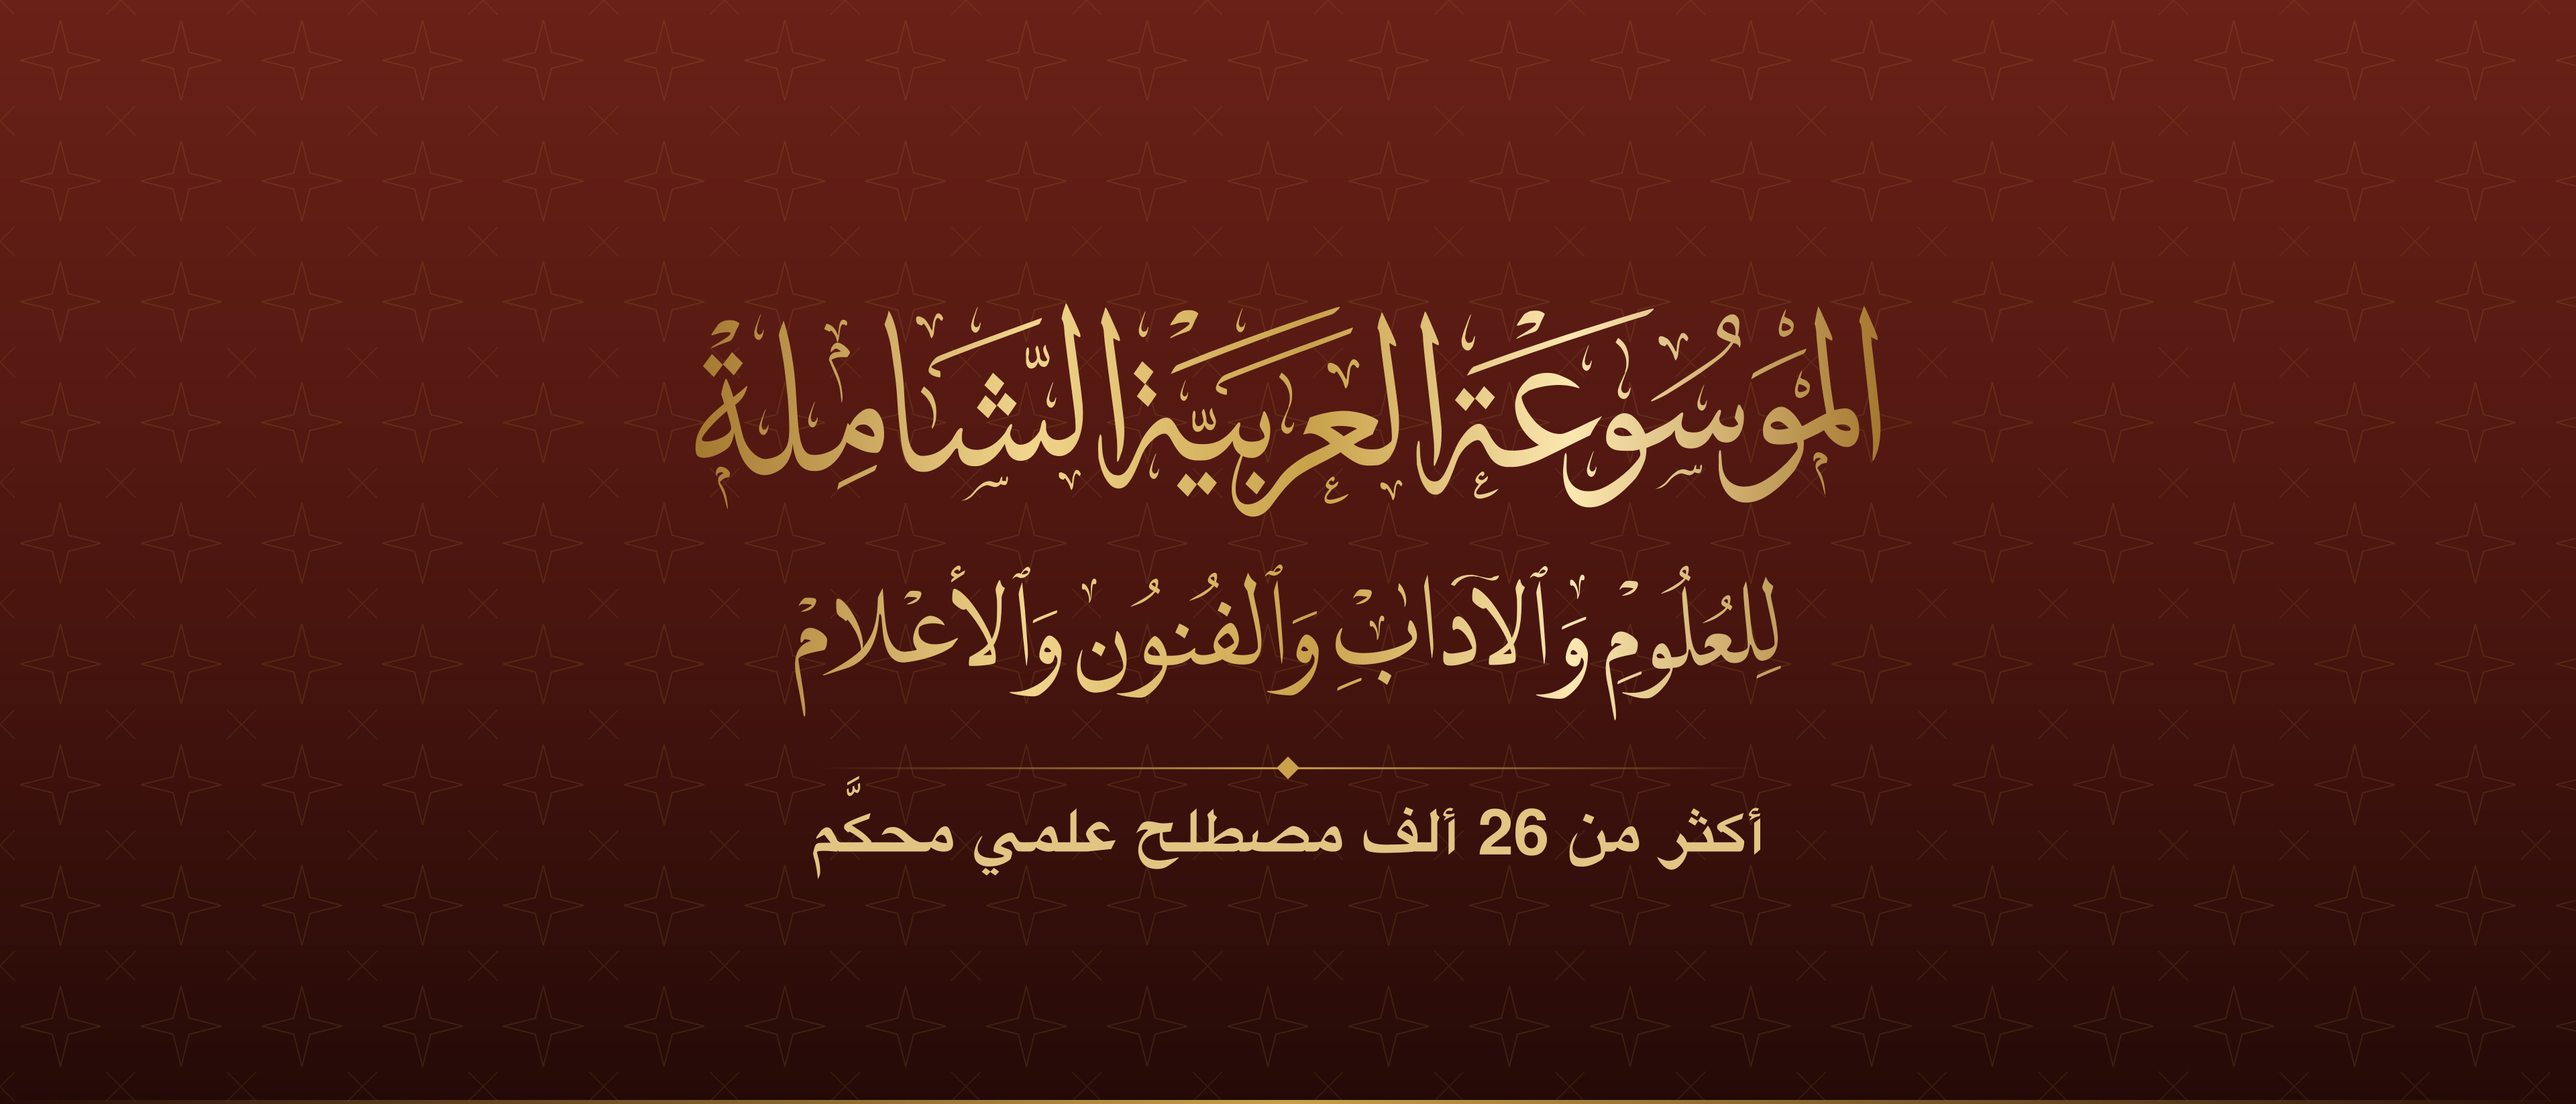
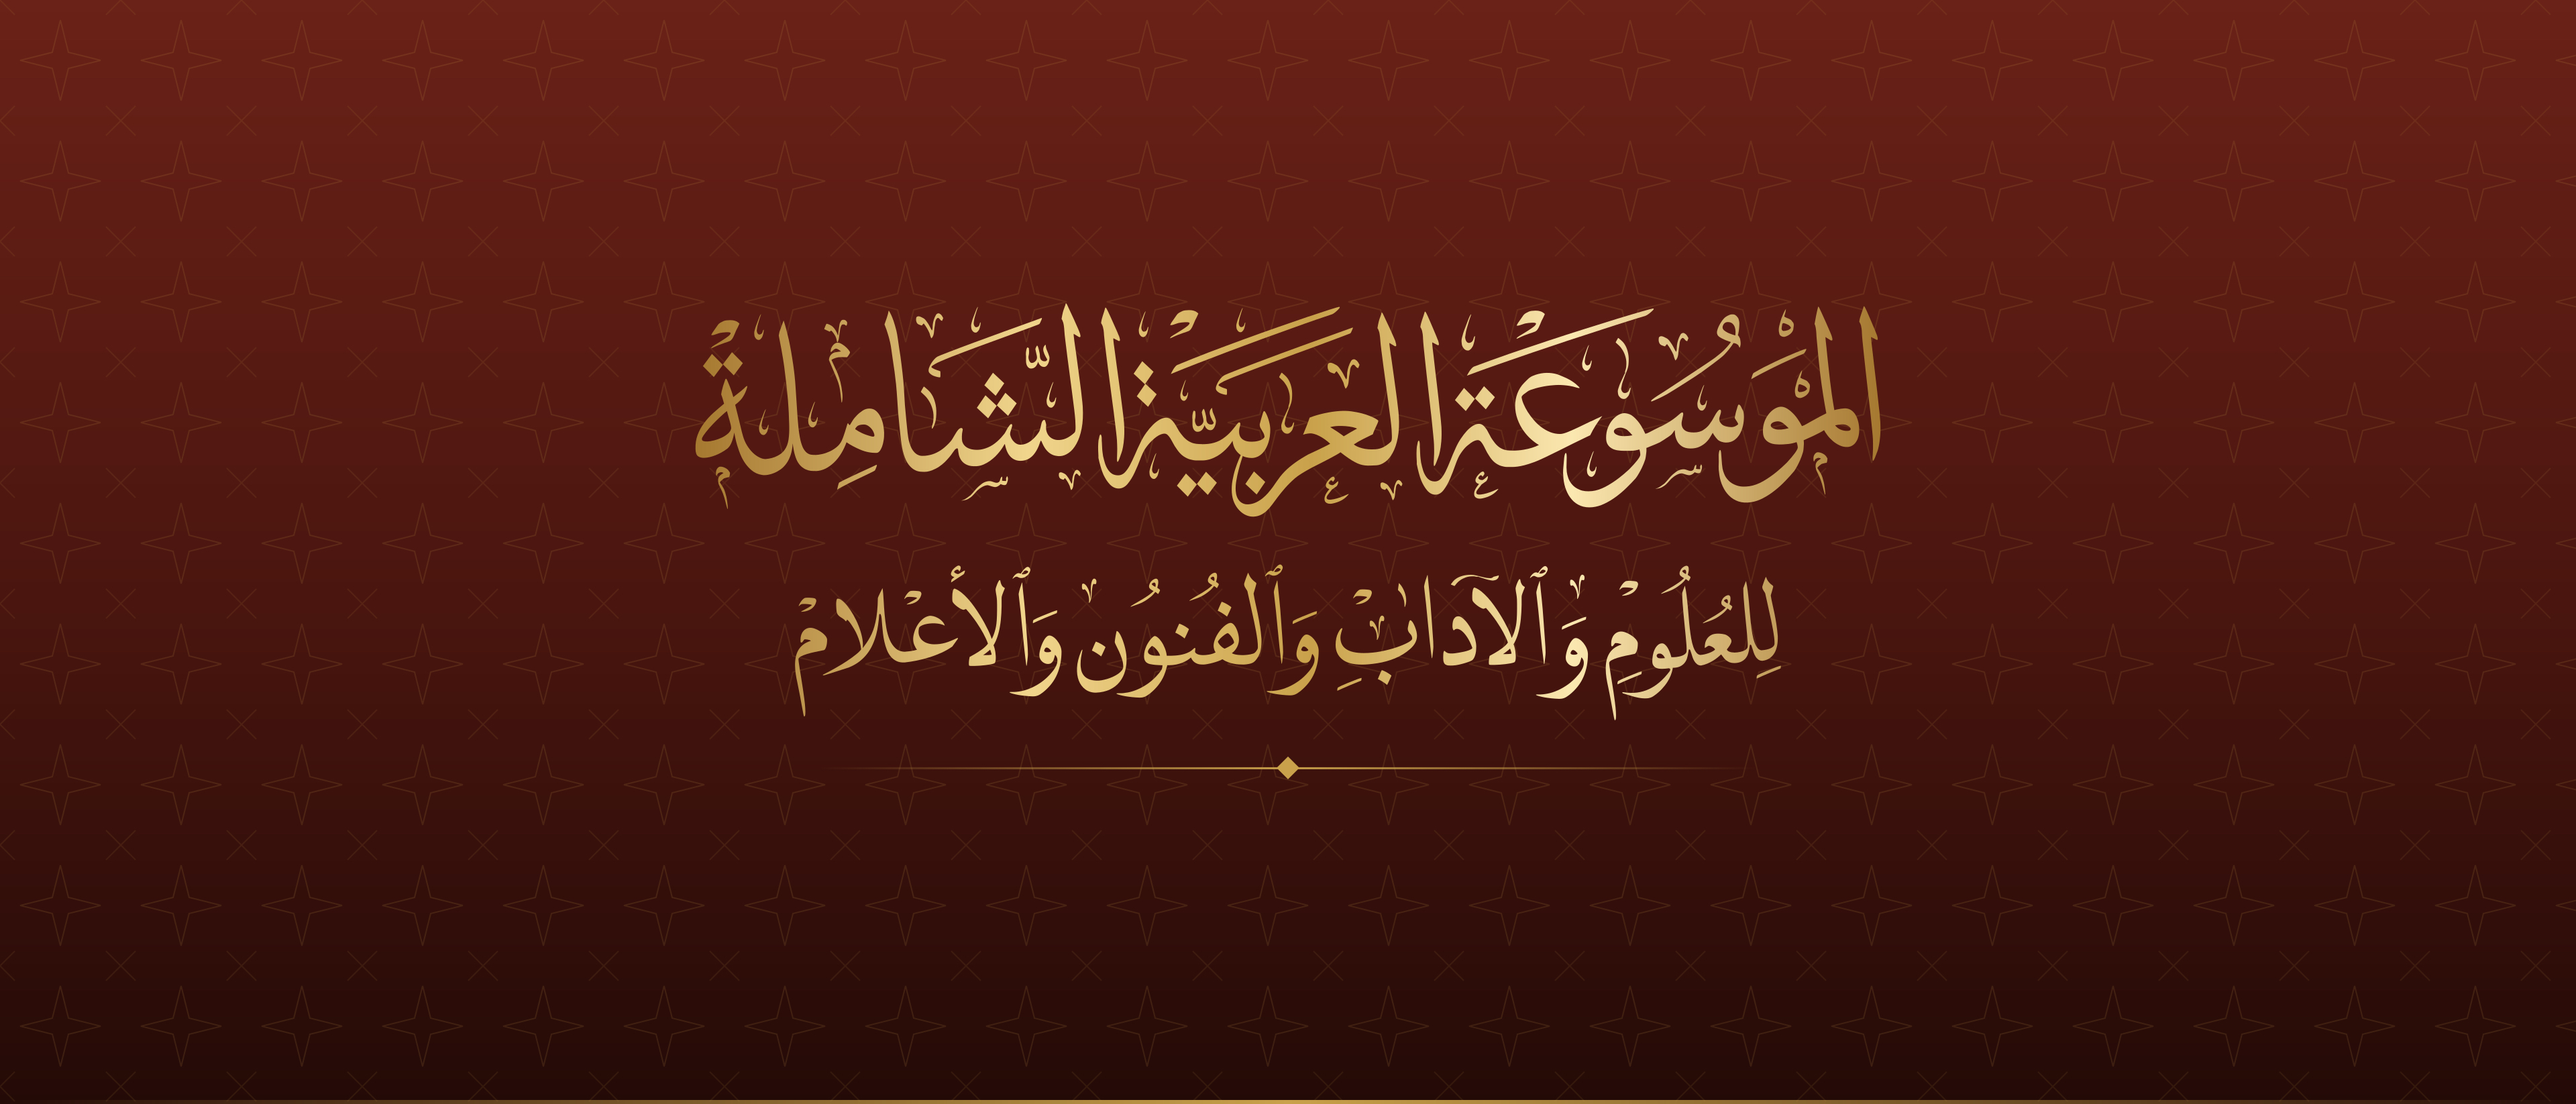
Store materials: no term counts promised (texts and images)

Changed region(s): [[0.3125, 0.7126, 0.6875, 0.8056]]

diff --git a/AppStore/STORE_LISTING.md b/AppStore/STORE_LISTING.md
@@ -33,8 +33,8 @@ Character limits are noted next to each field; every text below fits within them
 **English** (70 characters):
 > The comprehensive Arabic encyclopedia of terms, by the Sharjah Academy
 
-App Store "Promotional text" (up to 170 characters, can be changed anytime without review):
-> أكثر من 26 ألف مصطلح في العلوم اللغوية والشرعية والإنسانية والتطبيقية، بتعريفاتها اللغوية والاصطلاحية ومصادرها الموثوقة.
+App Store "Promotional text" (up to 170 characters, can be changed anytime without review; no figures promised):
+> مصطلحات العلوم اللغوية والشرعية والإنسانية والتطبيقية، بتعريفاتها اللغوية والاصطلاحية ومصادرها الموثوقة، من مجمع اللغة العربية في الشارقة.
 
 ## 5. About / full description (more than 200 words)
 
@@ -44,7 +44,7 @@ App Store "Promotional text" (up to 170 characters, can be changed anytime witho
 >
 > مشروع معرفي شامل من مجمع اللغة العربية في الشارقة، يهدف إلى توثيق تراث اللغة العربية وعلومها ومصطلحاتها، بنسق مخطوطي معاصر يجمع بين الدقة الأكاديمية وجماليات التصميم العربي.
 >
-> يضع التطبيق بين يديك أكثر من ستة وعشرين ألف مصطلح علمي محكَّم، موزعة على عشرات العلوم في العلوم اللغوية والشرعية والإنسانية والتطبيقية والفنون الأدبية؛ من النحو والصرف والبلاغة والعروض، إلى علوم القرآن وعلوم الحديث وأصول الفقه، وصولًا إلى المنطق والصوتيات والمعجميات والمسرح وغيرها.
+> يضع التطبيق بين يديك مصطلحات علمية محكَّمة، موزعة على علوم اللغوية والشرعية والإنسانية والتطبيقية والفنون الأدبية؛ من النحو والصرف والبلاغة والعروض، إلى علوم القرآن وعلوم الحديث وأصول الفقه، وصولًا إلى المنطق والصوتيات والمعجميات والمسرح وغيرها.
 >
 > لكل مصطلح بطاقة علمية متكاملة تعرض التعريف اللغوي، والتعريف الاصطلاحي، وشرح التعريف، والأمثلة، والمصادر والمراجع التي اعتمد عليها الباحثون، في عرض واضح يراعي جمال الخط العربي وسهولة القراءة.
 >
@@ -74,7 +74,7 @@ App Store "Promotional text" (up to 170 characters, can be changed anytime witho
 >
 > A major knowledge project of the Arabic Language Academy in Sharjah, documenting the heritage of the Arabic language, its sciences and terminology, in a contemporary manuscript-inspired design that combines academic rigour with the beauty of Arabic calligraphy.
 >
-> The app gives you more than 26,000 peer-reviewed scholarly terms across dozens of disciplines in the linguistic, Islamic, human and applied sciences and the literary arts: from grammar, morphology, rhetoric and prosody to Quranic sciences, Hadith sciences and legal theory, and on to logic, phonetics, lexicography, theatre and more.
+> The app gives you peer-reviewed scholarly terms across disciplines in the linguistic, Islamic, human and applied sciences and the literary arts: from grammar, morphology, rhetoric and prosody to Quranic sciences, Hadith sciences and legal theory, and on to logic, phonetics, lexicography, theatre and more.
 >
 > Each term has a complete scholarly entry: its linguistic definition, its technical definition, an explanation, examples, and the sources and references the researchers relied on, presented clearly and designed for comfortable reading in Arabic.
 >
@@ -171,7 +171,7 @@ The app's own code collects nothing. The website it displays uses **Google Analy
 
 > This is the official app of the Comprehensive Arabic Encyclopedia (الموسوعة العربية الشاملة), a project of the Arabic Language Academy in Sharjah (UAE), a government cultural institution.
 >
-> The app provides free access to more than 26,000 scholarly Arabic terms with their definitions and sources. No account or login is needed: all content is public. Main sections are in the native bottom bar: Home (browse by section › field › discipline), Search (full-text, diacritics-insensitive, with filters) and Index (الفهرس), a native index of every section, field and discipline, with a "recently read" list (stored on device only), statistics and the privacy policy. Entries can be shared through the native iOS share sheet.
+> The app provides free access to scholarly Arabic terms with their definitions and sources. No account or login is needed: all content is public. Main sections are in the native bottom bar: Home (browse by section › field › discipline), Search (full-text, diacritics-insensitive, with filters) and Index (الفهرس), a native index of every section, field and discipline, with a "recently read" list (stored on device only), statistics and the privacy policy. Entries can be shared through the native iOS share sheet.
 >
 > Links to other websites open in an in-app Safari view; the app itself stays on the encyclopedia site. The app works in Arabic, right-to-left.
 
